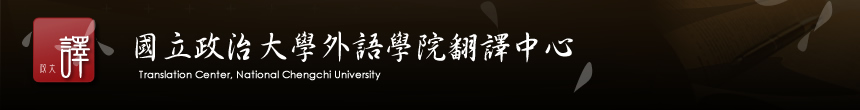
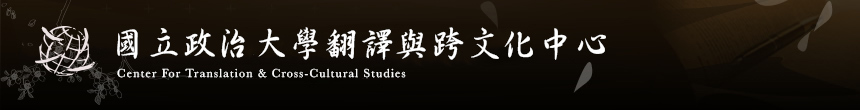
Transform to TransCross

Changed region(s): [[0.0, 0.0818, 0.7256, 0.9545]]

diff --git a/app/helpers/application_helper.rb b/app/helpers/application_helper.rb
@@ -1,6 +1,6 @@
 module ApplicationHelper
   def full_title(page_title)
-    base_title ='國立政治大學外國語文學院翻譯中心'
+    base_title ='國立政治大學翻譯與跨文化中心'
     if page_title.empty?
       base_title
     else
